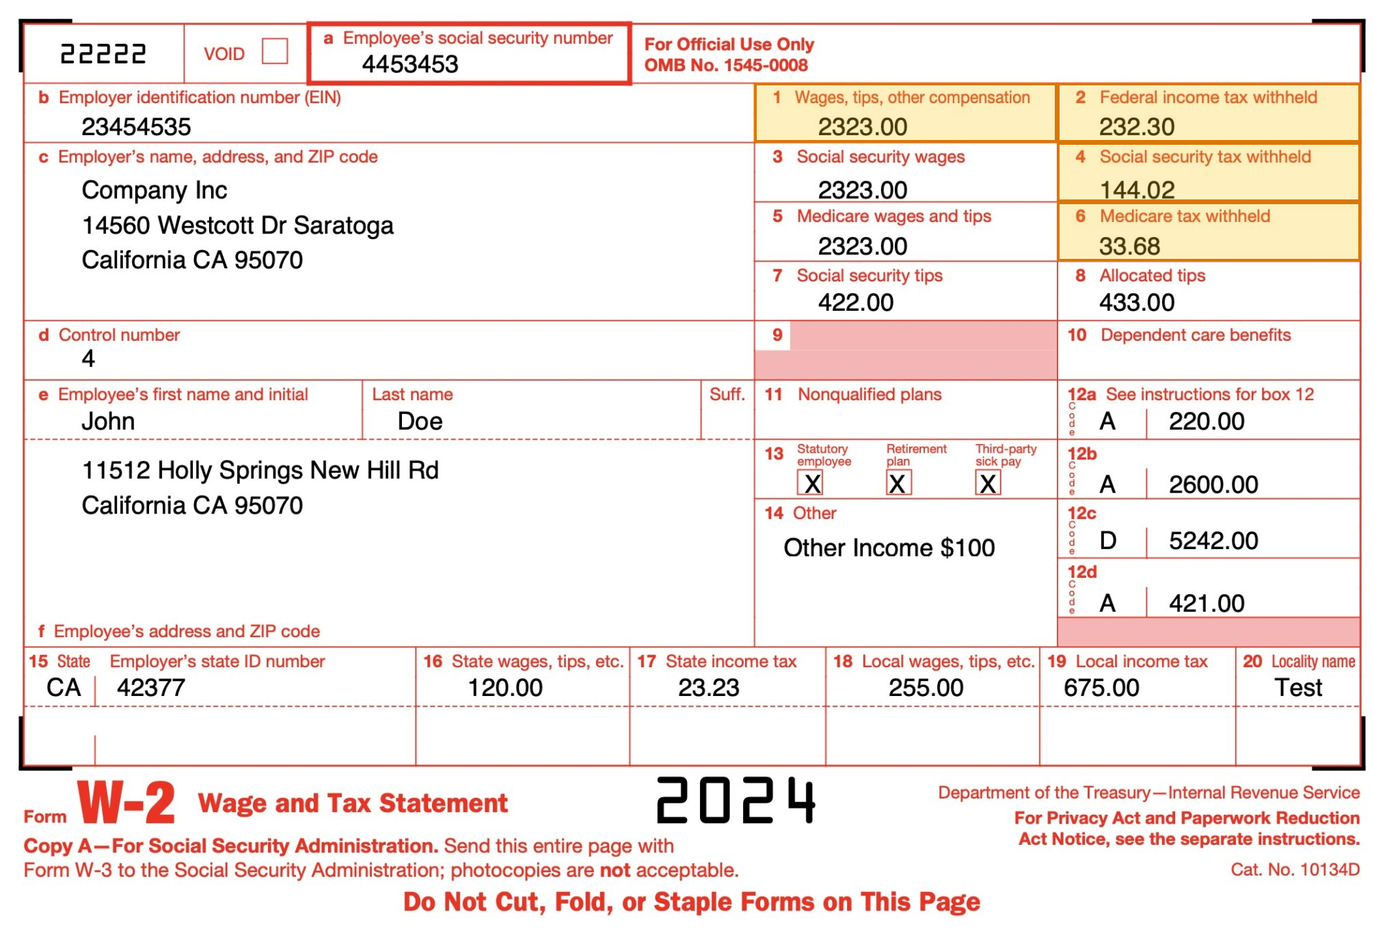
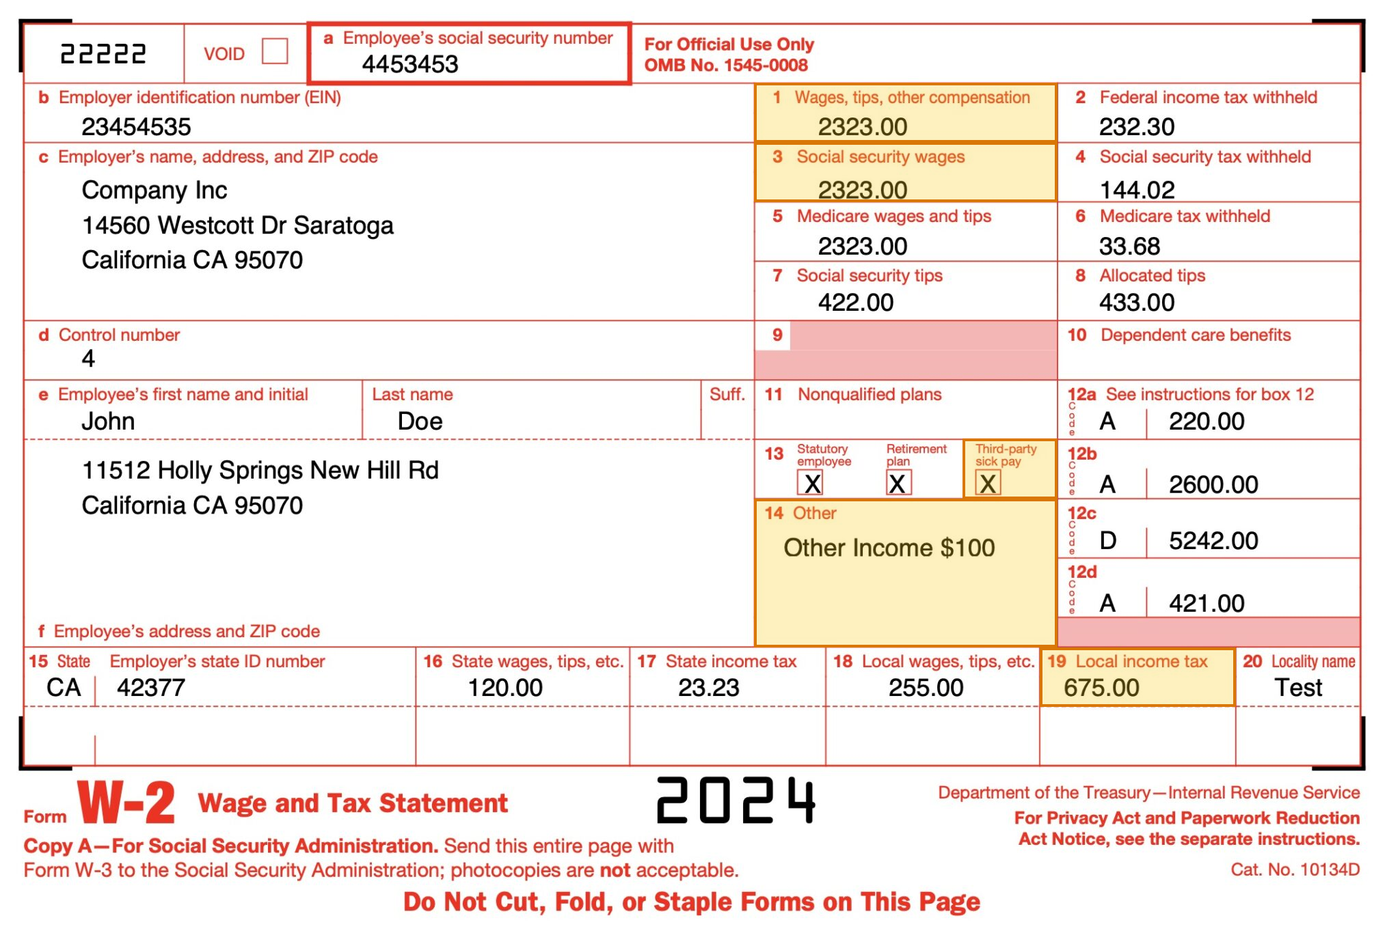
feat: feature boxes 1, 3, 13, 14 and 19 on w2-form
The document owner chose the fields after the first build: wages, social
security wages, the third-party sick pay checkbox, the box 14 write-in and
local income tax. Box 12c's code and amount were also asked for; the code
extracts as null because the parse drops it, so box 12 is left out.

The checkbox is featured through third_party_sick_pay, whose range covers
only its label and tick; build_images.py flags it because 'True' never
appears on the page, and the crop was checked by eye. The request file now
records the fields asked for.

Changed region(s): [[0.5221, 0.0612, 0.9829, 0.2753], [0.5221, 0.4589, 0.8907, 0.7648]]

diff --git a/document-types/collection/w2-form/README.md b/document-types/collection/w2-form/README.md
@@ -46,23 +46,34 @@ The collection's first **image input** and first **government tax form**:
 - **Small, awkward details.** Box 12's letter codes sit beside a tiny vertical "Code"
   label, and box 13 is three checkboxes.
 
-## Featured fields: wages and what was withheld
+## Featured fields: one of each kind of box
 
-All on **page 1**. The request named no feature page or fields, so these were chosen:
+All on **page 1**, chosen by the document owner after the first build:
 
 | Field | Value |
 |---|---|
 | Wages (box 1) | 2,323.00 |
-| Federal income tax withheld (box 2) | 232.30 |
-| Social Security tax withheld (box 4) | 144.02 |
-| Medicare tax withheld (box 6) | 33.68 |
+| Social security wages (box 3) | 2,323.00 |
+| Third-party sick pay checked (box 13) | true |
+| Other (box 14 write-in) | Other Income $100 |
+| Local income tax (box 19) | 675.00 |
 
-They tell one story: the wages, and each tax taken from them at its rate. Federal is 10%
-of $2,323.00, Social Security is 6.2% ($144.026, printed truncated to $144.02) and Medicare
-is 1.45% ($33.6835, printed $33.68). No person is featured.
-
+Together they cover each kind of box on the form: printed amounts, a checkbox, a free-text
+write-in, and a box from the state and local row along the bottom. No person is featured.
 Each box covers the whole form box, label and value together, so a crop reads as "Social
-security tax withheld 144.02" rather than a bare number.
+security wages 2323.00" rather than a bare number.
+
+**The checkbox is featured through Third-party sick pay** because it has its own tight
+range, covering just its label and the ticked box. `build_images.py` warns that "True" is
+not in the boxed text, which is expected: a checkbox never prints the word. The crop was
+checked by eye. Statutory employee and Retirement plan share a single range covering both
+boxes, so either would show two ticks in one crop.
+
+**What was asked for and dropped.** The owner also asked for box 12c, its code "D" and
+its amount 5,242.00. The amount grounds correctly, but the code extracts as null (below),
+and the owner chose to leave box 12 out rather than show the amount without its code.
+The first build featured boxes 1, 2, 4 and 6 instead: wages and the three taxes taken from
+them.
 
 ## What it surfaced
 
@@ -76,8 +87,9 @@ is.
 as "16 State wages, tips, etc. 120.00", and extraction returns the right value, but with no
 range. Every neighbouring box in the same row grounds normally.
 
-**Checkboxes read correctly but box as a group.** All three box 13 checkboxes extract as
-true, which matches the page, but they ground to the whole of box 13 and are not featured.
+**Checkboxes read correctly, and one boxes on its own.** All three box 13 checkboxes
+extract as true, which matches the page. Third-party sick pay has its own range; the other
+two share one.
 
 **Everything else grounds to its own box.** 32 of the 42 extracted values are `ok`,
 including both addresses, the control number and the whole state and local row apart
